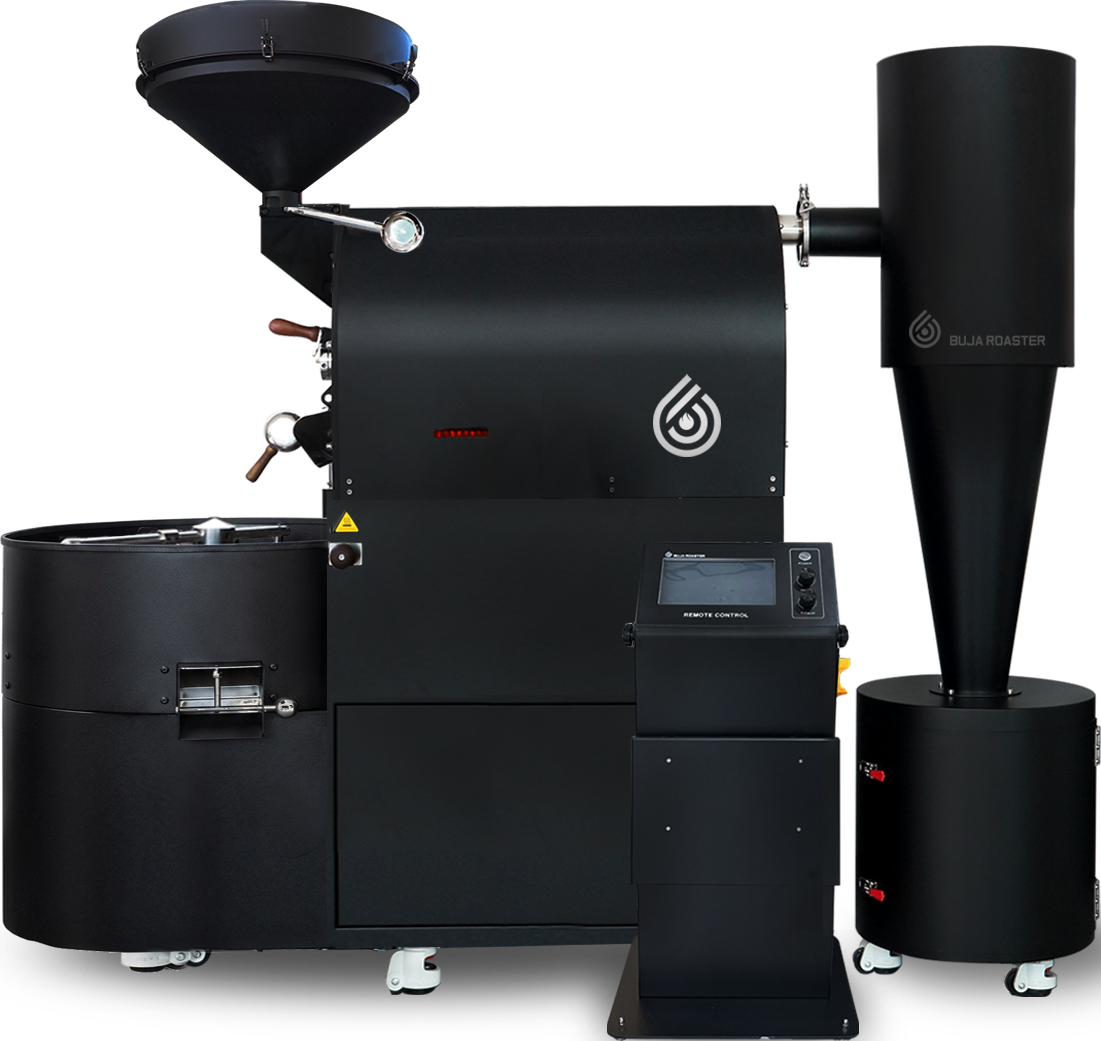
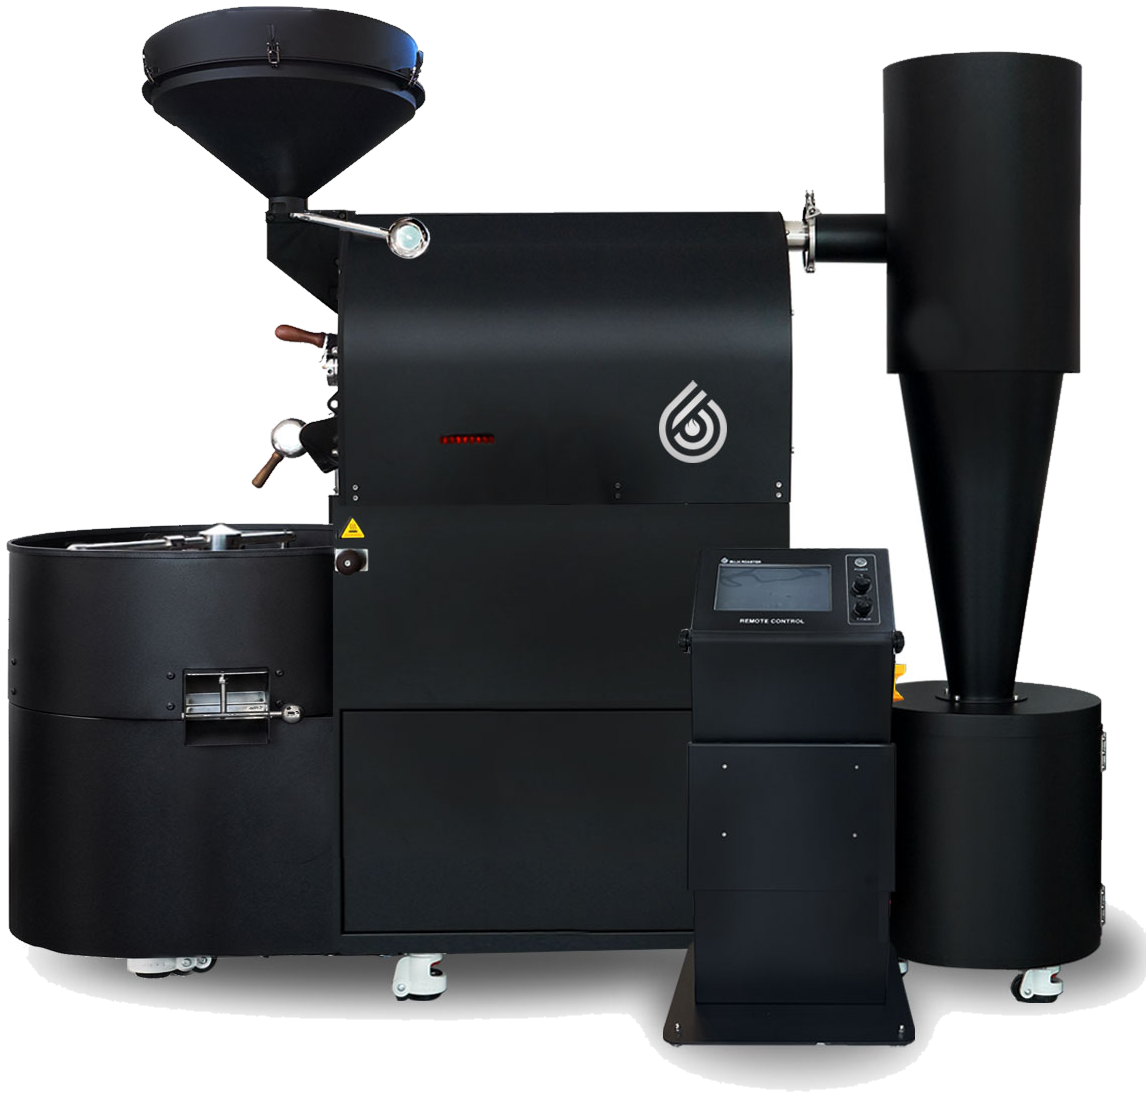
B15K SG: add the black / ivory / red Colors photos and use the new black photo (transparent background) as the main model image

diff --git a/src/data/models.ts b/src/data/models.ts
@@ -123,6 +123,9 @@ import b500sgGallery6 from '../assets/b500sg-gallery/gallery-6.jpg'
 import b500sgGallery7 from '../assets/b500sg-gallery/gallery-7.jpg'
 import b500sgGallery8 from '../assets/b500sg-gallery/gallery-8.jpg'
 import b15kSgImage from '../assets/model-b15k-sg.png'
+import b15kSgColorBlack from '../assets/b15k-sg-color-black.jpg'
+import b15kSgColorIvory from '../assets/b15k-sg-color-ivory.jpg'
+import b15kSgColorRed from '../assets/b15k-sg-color-red.jpg'
 import bujaTableImage from '../assets/model-buja-table.png'
 import demtruckImage from '../assets/model-demtruck.png'
 import b500sGalleryDrum from '../assets/b500s-gallery-drum.jpg'
@@ -1384,11 +1387,11 @@ export const MODELS: Model[] = [
       '옵션 : 디지털 풍압계',
     ],
     colors: ['#111111', '#ffffff', '#dc2626'],
-    // same page layout as B500SG (single model: no lineup / table); Colors photos and the gallery are added once they arrive
+    // same page layout as B500SG (single model: no lineup / table); the gallery is added once the photos arrive
     colorOptions: [
-      { name: '블랙', hex: '#111111' },
-      { name: '아이보리', hex: '#f3efe3' },
-      { name: '빨강', hex: '#dc2626' },
+      { name: '블랙', hex: '#111111', image: b15kSgColorBlack },
+      { name: '아이보리', hex: '#f3efe3', image: b15kSgColorIvory },
+      { name: '빨강', hex: '#dc2626', image: b15kSgColorRed },
     ],
     specShowcase: {
       heroImageClass: 'max-w-[280px] sm:max-w-md lg:max-w-lg',
